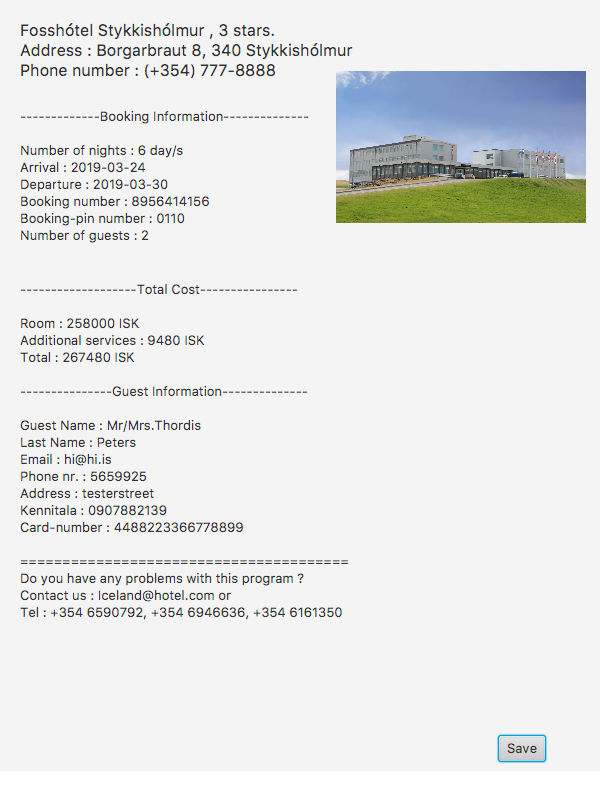
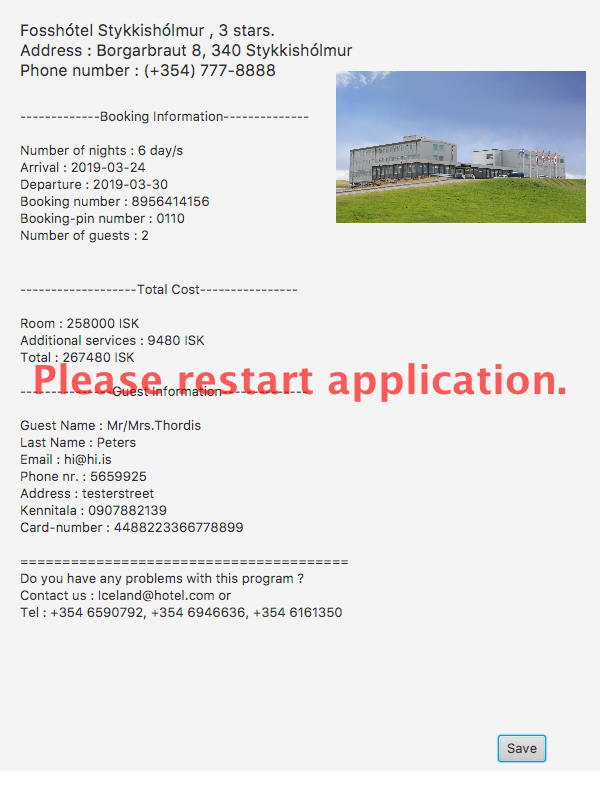
Gera Booking2 flott again. opna nýr mynd þegar ýtta cancelled booking

Changed region(s): [[0.3, 0.4563, 0.96, 0.5171], [0.06, 0.4563, 0.27, 0.5171]]

diff --git a/src/is/hi/hbv/utlit/HerbergiController.java b/src/is/hi/hbv/utlit/HerbergiController.java
@@ -46,43 +46,29 @@ import java.util.logging.Logger;
 
 public class HerbergiController implements Initializable{
     @FXML
-    public TextArea reviewBox;
-    @FXML
-    private Button outID;
+    public TextArea reviewBox;  // Show reviews for selected hotel
 
     @FXML
     private Button backID;
-
-    @FXML
-    private Slider zoom_slider;
-
-    @FXML
-    private ScrollPane map_scrollpane;
 
     @FXML
 
     private ListView hotelRooms; // var <String>
 
     @FXML
-    private Label hotelname;
+    private Label hotelname;    // Show selected hotel name
 
     @FXML
-    private Button inID;
+    private TextArea hotelInfo; // Show hotel-info for selected hotel
 
     @FXML
-    private TextArea hotelInfo;
+    private Button nextID;      // Go to next scene
 
     @FXML
-    private Button nextID;
+    private Pane hotelImage;    // Display image for selected hotel
 
     @FXML
-    private WebView mapID;
-
-    @FXML
-    private Pane hotelImage;
-
-    @FXML
-    private Button morepicID;
+    private Button morepicID;   // Go to morepic scene
 
     private String firstname;
     private String lastname;
@@ -92,27 +78,21 @@ public class HerbergiController implements Initializable{
     private String kennitala;
     private String card;
 
-    Group zoomGroup;
-
     int roomindex = -1;
 
-    private Hotel chosenHotel;
-    private Room chosenRoom;
-    private long daycountvalue;
-    private LocalDate arrivalchoicevalue;
-    private LocalDate departurechoicevalue;
-    private int guestnumbervalue;
+    private Hotel chosenHotel;                  // The chosen hotel from the search
+    private Room chosenRoom;                    // The chosen room from last window
+    private long daycountvalue;                 // Duration of stay
+    private LocalDate arrivalchoicevalue;       // Arrival date
+    private LocalDate departurechoicevalue;     // Departure date
+    private int guestnumbervalue;               // Number of guests
 
     private ObservableList<Object> roomResults;
 
 
-    //ObservableList<String> items = FXCollections.observableArrayList("test1", "test2","test1", "test2","test1", "test2","test1", "test2","test1", "test2","test1", "test2","test1", "test2");
 
     @Override
     public void initialize(URL location, ResourceBundle resources) {
-        //test.setItems(items);
-        //outID.setTooltip(new Tooltip("Zoom-out"));
-        //inID.setTooltip(new Tooltip("Zoom-in."));
         nextID.setTooltip(new Tooltip("Go to services"));
         backID.setTooltip(new Tooltip("Go back to search"));
 
@@ -128,45 +108,12 @@ public class HerbergiController implements Initializable{
         });
 
     }
-/*
-    @FXML
-    public void initialize() {
-        zoom_slider.setMin(0.5);
-        zoom_slider.setMax(1.5);
-        // sitja default 1.0 í stillingar svo notenda getur auðvelt að zoomin og OUT
-        zoom_slider.setValue(1.0);
-        zoom_slider.valueProperty().addListener((o, oldVal, newVal) -> zoom((Double) newVal));
 
-        // Wrap scroll content in a Group so ScrollPane re-computes scroll bars
-        Group contentGroup = new Group();
-        zoomGroup = new Group();
-        contentGroup.getChildren().add(zoomGroup);
-        zoomGroup.getChildren().add(map_scrollpane.getContent());
-        map_scrollpane.setContent(contentGroup);
-        mapID.setOnMousePressed(new EventHandler<MouseEvent>() {
-            @Override
-            public void handle(MouseEvent event) {
-                try {
-                    FXMLLoader loader = new FXMLLoader(getClass().getResource("maplist.fxml"));
-                    Parent root = (Parent) loader.load();
-                    Stage stage = new Stage();
-                    //stage.initStyle(StageStyle.DECORATED);
-                    stage.setTitle("Hotel Map");
-                    stage.setScene(new Scene(root));
-                    stage.show();
-                } catch (Exception e) {
-                    System.out.println("Can't open !!!");
-                }
-            }
-        });
-
-    }
-    */
-    // Sækja morepic glugga
+    // Display morePic.fxml
     @FXML
     void morePic(ActionEvent actionEvent) throws IOException {
         System.out.println("Hótel? " + chosenHotel);
-        // Loadum nýrri glugga -> MorePic.fxml
+        // Load new scene -> MorePic.fxml
         FXMLLoader fxmlLoader = new FXMLLoader(getClass().getResource("MorePic.fxml"));
         try {
             fxmlLoader.load();
@@ -184,25 +131,11 @@ public class HerbergiController implements Initializable{
         stage.show();
     }
 
-
-    // ZoomIn aðferð
-    @FXML
-    void zoomIn(ActionEvent event) {
-        double sliderVal = zoom_slider.getValue();
-        zoom_slider.setValue(sliderVal += 0.1);
-    }
-
-    // ZoomOut aðferð
-    @FXML
-    void zoomOut(ActionEvent event) {
-        double sliderVal = zoom_slider.getValue();
-        zoom_slider.setValue(sliderVal + -0.1);
-    }
-
-    // Sækja search glugga
+    // get search scene
     @FXML
     void returnToSearch(ActionEvent actionEvent) throws IOException {
-        // Loadum nýrri scene -> Search.fxml
+        // Load new scene -> Search.fxml
+        // this will remove everything from last input
         Parent Search_parent = FXMLLoader.load(getClass().getResource("Search.fxml"));
         Scene Search_scene = new Scene(Search_parent);
         Stage main_stage = (Stage) ((Node) actionEvent.getSource()).getScene().getWindow();
@@ -239,16 +172,6 @@ public class HerbergiController implements Initializable{
             alert.showAndWait();
         }
 
-    }
-
-    // Sækja X og Y value í pane til að sitja nýja gildi í zoomið
-    private void zoom(double scaleValue) {
-        double scrollH = map_scrollpane.getHvalue();
-        double scrollV = map_scrollpane.getVvalue();
-        zoomGroup.setScaleX(scaleValue);
-        zoomGroup.setScaleY(scaleValue);
-        map_scrollpane.setHvalue(scrollH);
-        map_scrollpane.setVvalue(scrollV);
     }
 
     public void showHotel(Hotel hotel) {

diff --git a/src/is/hi/hbv/utlit/booking2Controller.java b/src/is/hi/hbv/utlit/booking2Controller.java
@@ -58,7 +58,7 @@ public class booking2Controller implements Initializable {
         alert.setHeaderText("Warning !");
         alert.setContentText("Are you sure you want to cancel this reversation ?");
 
-        String text = "Booking has cancelled \u2122";
+        String text = "Please restart application.";
         File input = new File("src/is/hi/hbv/utlit/img/Roomimage/booking/" + booking + ".png");
         File output = new File("src/is/hi/hbv/utlit/img/Roomimage/booking/" + booking + ".png");
         Optional<ButtonType> result = alert.showAndWait();
@@ -75,13 +75,18 @@ public class booking2Controller implements Initializable {
         //}
         // adding text as overlay to an image
         alert();
+
+        //Display new image that say restart application
+        Image image = new Image("is/hi/hbv/utlit/img/Roomimage/booking/cancelled.png");
+        imageID.setImage(image);
     }
 
-    //  Þetta aðferð eyða selected myndum !!!
+    //  Delete file method that work but i decide to use add watermark instead.
     public static boolean deleteDir(File dir) {
         return dir.delete();
     }
 
+    // Watermark method that can draw in image
     private static void addTextWatermark(String text, String type, File source, File destination) throws IOException {
         BufferedImage image = ImageIO.read(source);
 
@@ -109,6 +114,7 @@ public class booking2Controller implements Initializable {
         w.dispose();
     }
 
+    // Close current window
     public void closeAction(ActionEvent actionEvent) {
         Stage main_stage = (Stage) ((Node) actionEvent.getSource()).getScene().getWindow();
         main_stage.close();

diff --git a/src/is/hi/hbv/utlit/confirmController.java b/src/is/hi/hbv/utlit/confirmController.java
@@ -79,7 +79,7 @@ public class confirmController implements Initializable {
                             "Phone number : (+354) " + chosenHotel.getPhoneNr() + "\n"
         );
         resultBooking.setText("-------------Booking Information--------------\n\n" +
-                            "Number of nights : " + daycountvalue + " day/s" + "\n" +
+                            "Number of night(s) : " + daycountvalue + " day(s)" + "\n" +
                             "Arrival : " + arrivalchoicevalue + "\n" +
                             "Departure : " + departurechoicevalue + "\n" +
                             "Booking number : " + book + "\n" +

diff --git a/src/is/hi/hbv/utlit/MorePicController.java b/src/is/hi/hbv/utlit/MorePicController.java
@@ -50,7 +50,7 @@ public class MorePicController implements Initializable {
             ImageView imageView = new ImageView(img);
             imageView.setFitHeight(400);
             imageView.setFitWidth(560);
-            imageView.setPreserveRatio(true);
+            //imageView.setPreserveRatio(true);
             tilePane.getChildren().addAll(imageView);
         }
         imageSlider.setContent(tilePane);
